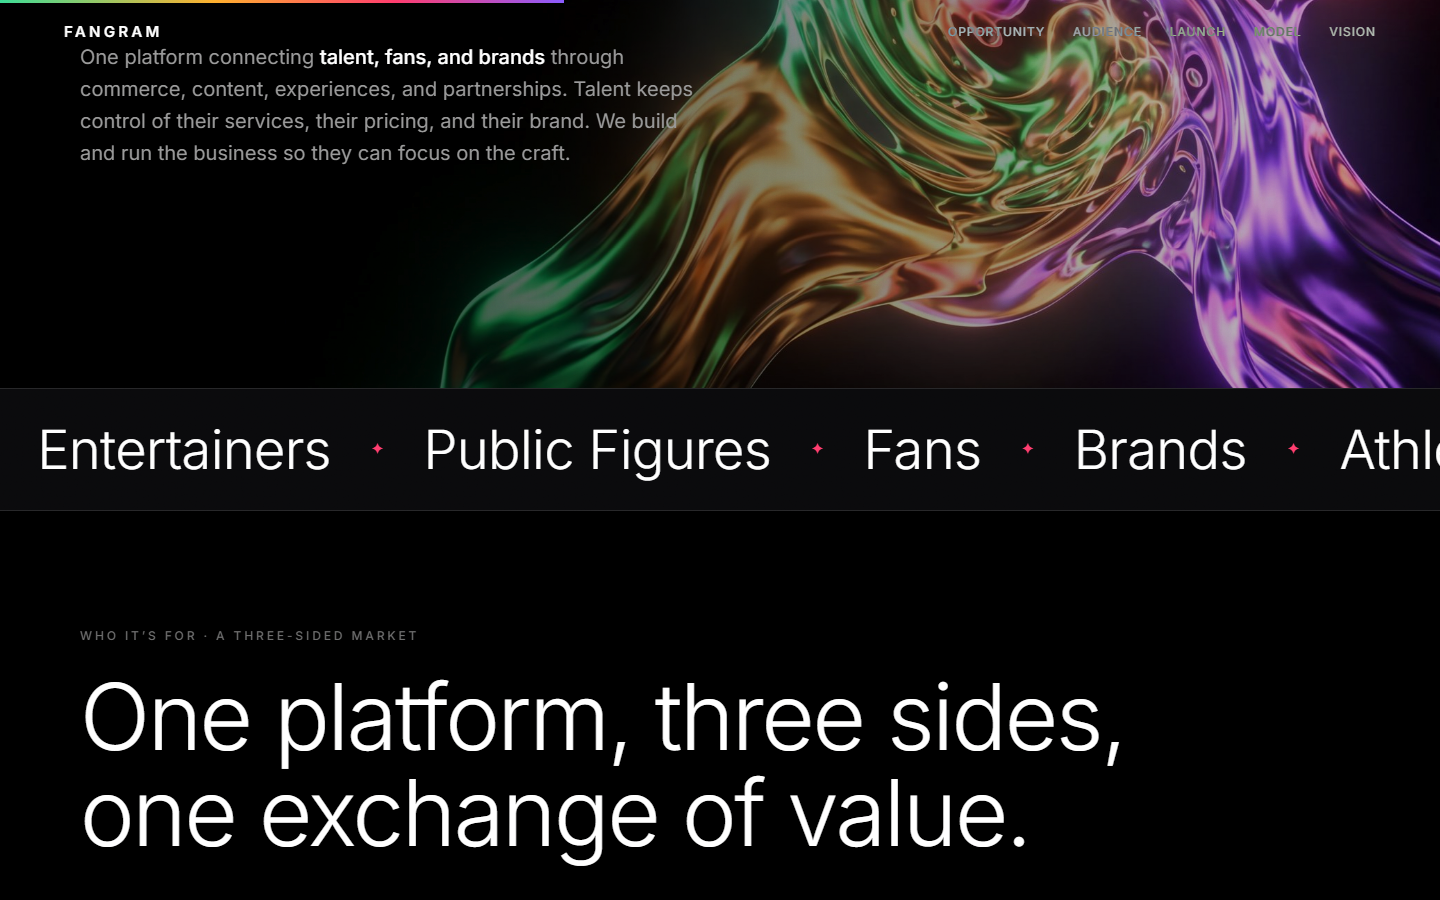
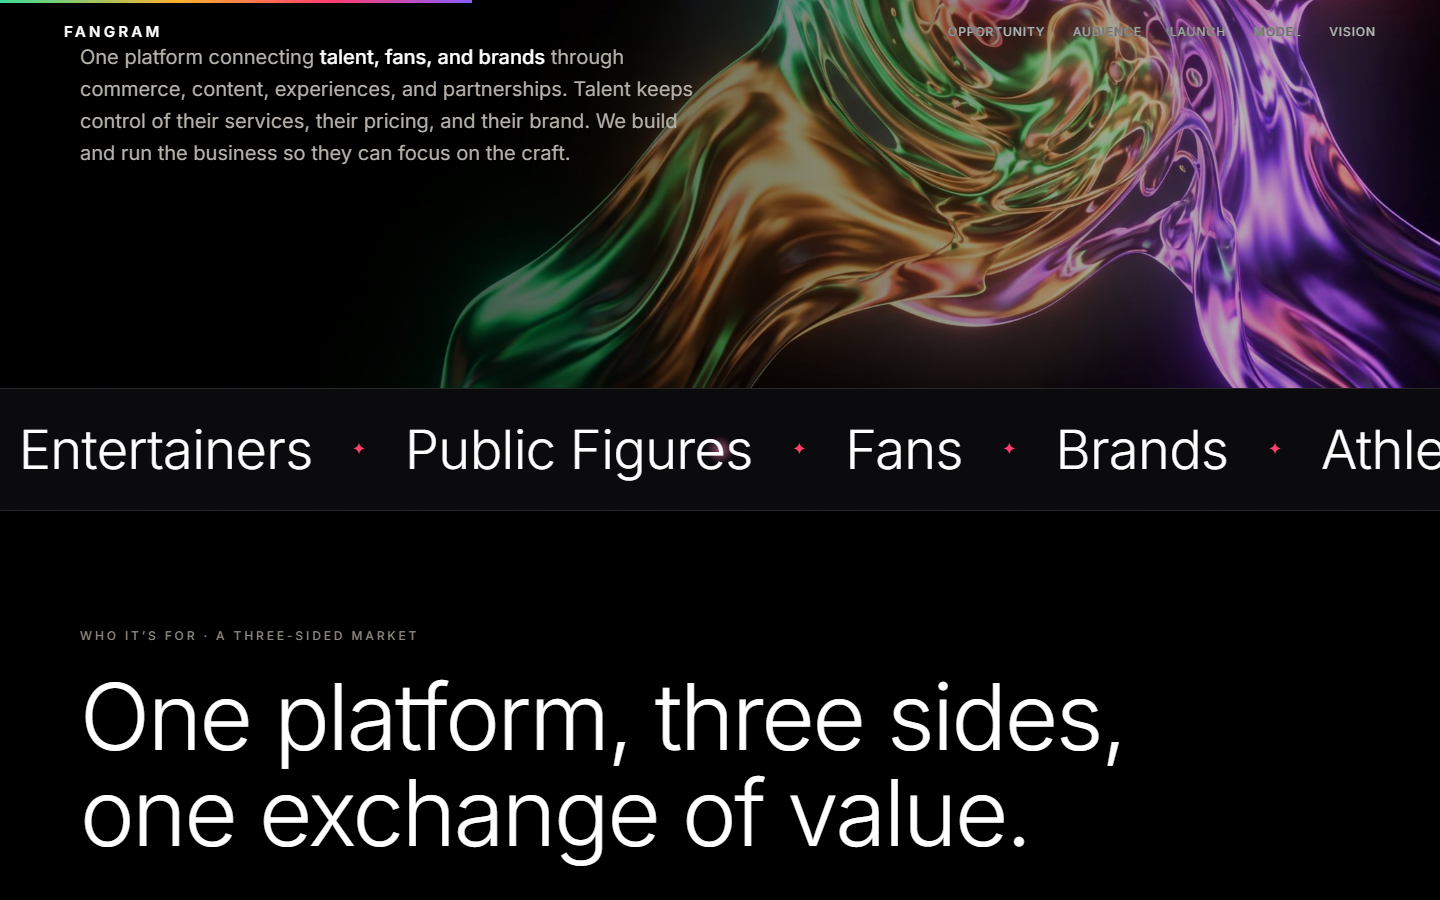
Marquee: scroll-velocity reactive skew (leans with scroll speed)

diff --git a/src/App.jsx b/src/App.jsx
@@ -1,5 +1,5 @@
 import { useEffect, useRef, useState } from 'react'
-import { motion, useScroll, useTransform } from 'framer-motion'
+import { motion, useScroll, useTransform, useVelocity, useSpring } from 'framer-motion'
 import Lenis from 'lenis'
 import Hero3D from './components/Hero3D'
 import { STATS, SEGMENTS, PHASES, REVENUE, FLYWHEEL, GTM, ROADMAP, COMPETE, MOAT } from './data'
@@ -147,19 +147,24 @@ function FlywheelCircle({ items }) {
   )
 }
 
-/* kinetic marquee band */
+/* kinetic marquee band — leans with scroll velocity */
 function Marquee({ items }) {
   const row = [...items, ...items]
+  const { scrollY } = useScroll()
+  const vel = useVelocity(scrollY)
+  const skew = useSpring(useTransform(vel, [-2500, 0, 2500], [7, 0, -7], { clamp: true }), { damping: 50, stiffness: 400 })
   return (
     <div className="marquee">
-      <motion.div
-        className="marquee-row"
-        animate={{ x: ['0%', '-50%'] }}
-        transition={{ duration: 24, ease: 'linear', repeat: Infinity }}
-      >
-        {row.map((w, i) => (
-          <span className="marquee-item" key={i}>{w}<span className="marquee-dot">✦</span></span>
-        ))}
+      <motion.div className="marquee-skew" style={{ skewX: skew }}>
+        <motion.div
+          className="marquee-row"
+          animate={{ x: ['0%', '-50%'] }}
+          transition={{ duration: 24, ease: 'linear', repeat: Infinity }}
+        >
+          {row.map((w, i) => (
+            <span className="marquee-item" key={i}>{w}<span className="marquee-dot">✦</span></span>
+          ))}
+        </motion.div>
       </motion.div>
     </div>
   )

diff --git a/src/App.css b/src/App.css
@@ -22,6 +22,7 @@
 
 /* kinetic marquee */
 .marquee { overflow: hidden; border-top: 1px solid var(--line); border-bottom: 1px solid var(--line); padding: 28px 0; white-space: nowrap; background: var(--carbon); }
+.marquee-skew { display: block; will-change: transform; }
 .marquee-row { display: inline-flex; }
 .marquee-item { display: inline-flex; align-items: center; font-size: clamp(26px, 4vw, 54px); font-weight: 300; letter-spacing: -0.01em; color: #fff; }
 .marquee-dot { margin: 0 40px; font-size: 16px; color: var(--flow-coral); transform: translateY(-2px); }